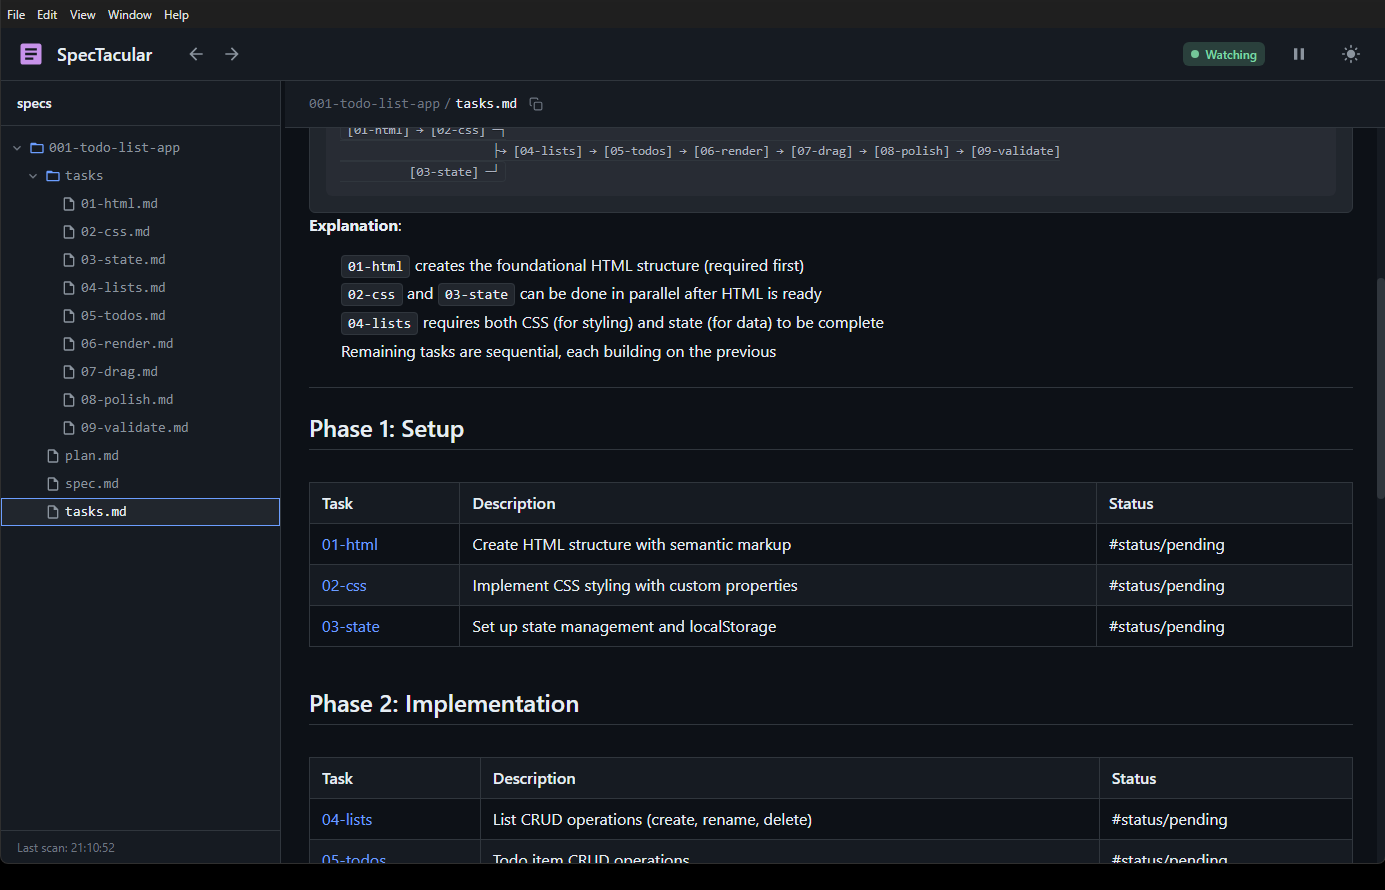
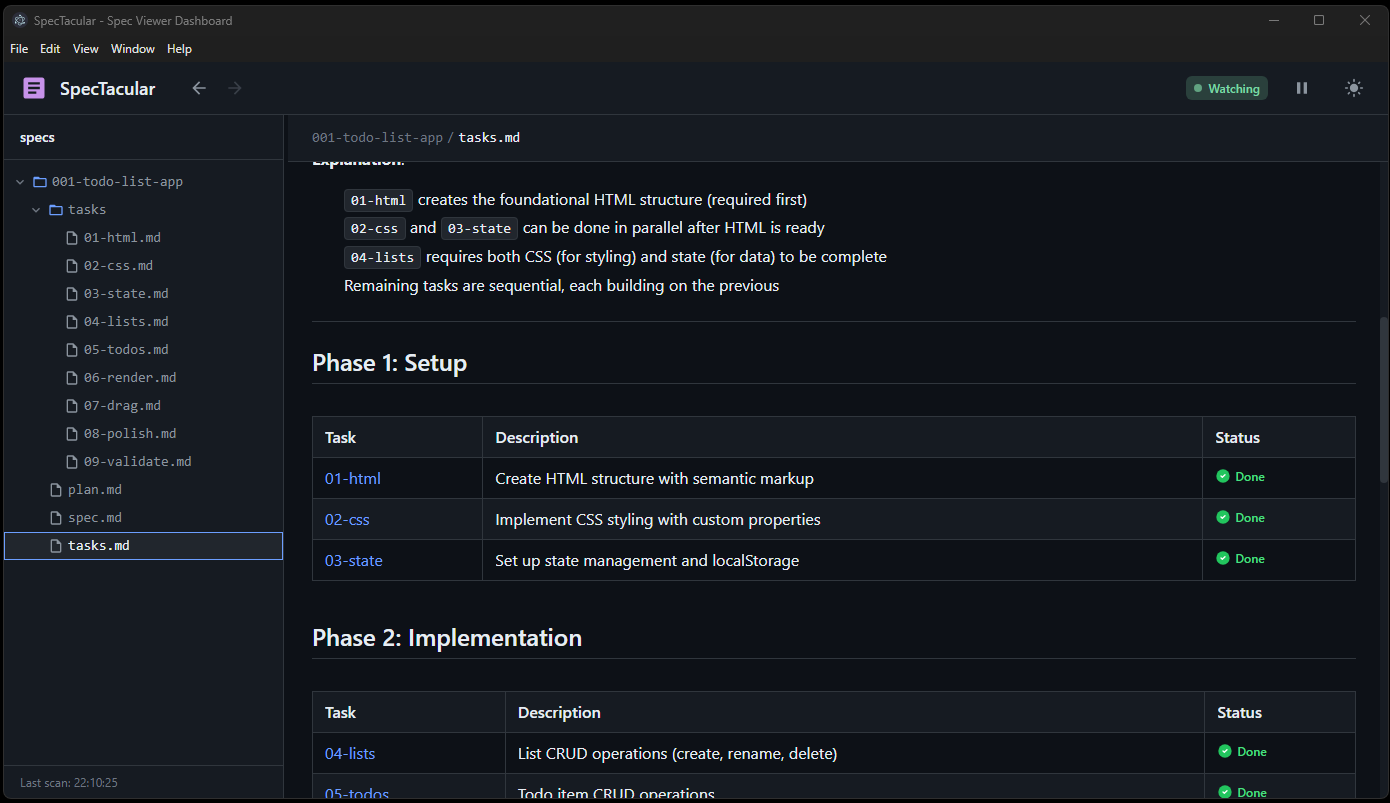
Add status tag visualization and project documentation
- Add visual icons for #status/* tags (done, pending, in-progress, blocked, skipped)
- Status tags render as colored icons with labels in markdown preview
- Support status tags in paragraphs and table cells
- Add README.md with project overview, setup instructions, and usage guide
- Update CLAUDE.md with markdown features documentation

🤖 Generated with [Claude Code](https://claude.com/claude-code)

diff --git a/spectacular-dashboard/src/components/MarkdownRenderer.tsx b/spectacular-dashboard/src/components/MarkdownRenderer.tsx
@@ -1,4 +1,4 @@
-import { useState, useCallback } from 'react';
+import React, { useState, useCallback } from 'react';
 import ReactMarkdown from 'react-markdown';
 import remarkGfm from 'remark-gfm';
 import { Prism as SyntaxHighlighter } from 'react-syntax-highlighter';
@@ -34,6 +34,107 @@ function CheckIcon({ className }: { className?: string }) {
       <polyline points="20 6 9 17 4 12" />
     </svg>
   );
+}
+
+// Status icons for #status/* tags
+function StatusDoneIcon() {
+  return (
+    <svg className="inline-block w-4 h-4 text-green-500" viewBox="0 0 24 24" fill="currentColor">
+      <circle cx="12" cy="12" r="10" />
+      <path d="M9 12l2 2 4-4" stroke="white" strokeWidth="2" fill="none" strokeLinecap="round" strokeLinejoin="round" />
+    </svg>
+  );
+}
+
+function StatusPendingIcon() {
+  return (
+    <svg className="inline-block w-4 h-4 text-gray-400" viewBox="0 0 24 24" fill="none" stroke="currentColor" strokeWidth="2">
+      <circle cx="12" cy="12" r="10" />
+    </svg>
+  );
+}
+
+function StatusInProgressIcon() {
+  return (
+    <svg className="inline-block w-4 h-4 text-blue-500" viewBox="0 0 24 24" fill="currentColor">
+      <circle cx="12" cy="12" r="10" />
+      <path d="M12 2 A10 10 0 0 1 12 22" fill="none" stroke="white" strokeWidth="2" />
+    </svg>
+  );
+}
+
+function StatusBlockedIcon() {
+  return (
+    <svg className="inline-block w-4 h-4 text-red-500" viewBox="0 0 24 24" fill="currentColor">
+      <circle cx="12" cy="12" r="10" />
+      <path d="M6 6l12 12M6 18L18 6" stroke="white" strokeWidth="2" strokeLinecap="round" />
+    </svg>
+  );
+}
+
+function StatusSkippedIcon() {
+  return (
+    <svg className="inline-block w-4 h-4 text-gray-500" viewBox="0 0 24 24" fill="currentColor">
+      <circle cx="12" cy="12" r="10" />
+      <path d="M8 12h8M15 9l3 3-3 3" stroke="white" strokeWidth="2" fill="none" strokeLinecap="round" strokeLinejoin="round" />
+    </svg>
+  );
+}
+
+// Status tag configuration
+const STATUS_CONFIG: Record<string, { icon: React.FC; label: string; className: string }> = {
+  'done': { icon: StatusDoneIcon, label: 'Done', className: 'text-green-600 dark:text-green-400' },
+  'complete': { icon: StatusDoneIcon, label: 'Complete', className: 'text-green-600 dark:text-green-400' },
+  'pending': { icon: StatusPendingIcon, label: 'Pending', className: 'text-gray-500 dark:text-gray-400' },
+  'in-progress': { icon: StatusInProgressIcon, label: 'In Progress', className: 'text-blue-600 dark:text-blue-400' },
+  'blocked': { icon: StatusBlockedIcon, label: 'Blocked', className: 'text-red-600 dark:text-red-400' },
+  'skipped': { icon: StatusSkippedIcon, label: 'Skipped', className: 'text-gray-500 dark:text-gray-400' },
+};
+
+// Render a status tag with icon
+function StatusTag({ status }: { status: string }) {
+  const config = STATUS_CONFIG[status.toLowerCase()];
+  if (!config) {
+    // Unknown status, render as plain text
+    return <span className="text-gray-500">#{`status/${status}`}</span>;
+  }
+  const Icon = config.icon;
+  return (
+    <span className={`inline-flex items-center gap-1 ${config.className}`} title={config.label}>
+      <Icon />
+      <span className="text-xs font-medium">{config.label}</span>
+    </span>
+  );
+}
+
+// Parse text to find and replace #status/* tags
+const STATUS_TAG_REGEX = /#status\/([a-zA-Z-]+)/g;
+
+function parseTextWithStatusTags(text: string): React.ReactNode[] {
+  const parts: React.ReactNode[] = [];
+  let lastIndex = 0;
+  let match;
+  let key = 0;
+
+  // Reset regex lastIndex
+  STATUS_TAG_REGEX.lastIndex = 0;
+
+  while ((match = STATUS_TAG_REGEX.exec(text)) !== null) {
+    // Add text before the match
+    if (match.index > lastIndex) {
+      parts.push(text.slice(lastIndex, match.index));
+    }
+    // Add the status tag component
+    parts.push(<StatusTag key={key++} status={match[1]} />);
+    lastIndex = match.index + match[0].length;
+  }
+
+  // Add remaining text after last match
+  if (lastIndex < text.length) {
+    parts.push(text.slice(lastIndex));
+  }
+
+  return parts.length > 0 ? parts : [text];
 }
 
 export function MarkdownRenderer({ content, currentFilePath, onNavigate }: MarkdownRendererProps) {
@@ -149,6 +250,36 @@ export function MarkdownRenderer({ content, currentFilePath, onNavigate }: Markd
                 <table>{children}</table>
               </div>
             );
+          },
+          // Custom paragraph renderer that handles status tags
+          p({ children }) {
+            if (typeof children === 'string') {
+              return <p>{parseTextWithStatusTags(children)}</p>;
+            }
+            // Handle array of children (mixed content)
+            const processedChildren = React.Children.map(children, (child) => {
+              if (typeof child === 'string') {
+                const parsed = parseTextWithStatusTags(child);
+                return parsed.length === 1 && typeof parsed[0] === 'string' ? child : parsed;
+              }
+              return child;
+            });
+            return <p>{processedChildren}</p>;
+          },
+          // Custom table cell renderer that handles status tags
+          td({ children }) {
+            if (typeof children === 'string') {
+              return <td>{parseTextWithStatusTags(children)}</td>;
+            }
+            // Handle array of children (mixed content)
+            const processedChildren = React.Children.map(children, (child) => {
+              if (typeof child === 'string') {
+                const parsed = parseTextWithStatusTags(child);
+                return parsed.length === 1 && typeof parsed[0] === 'string' ? child : parsed;
+              }
+              return child;
+            });
+            return <td>{processedChildren}</td>;
           },
           a({ href, children }) {
             const isMarkdownLink = href?.endsWith('.md') && !href?.startsWith('http');

diff --git a/README.md b/README.md
@@ -1,0 +1,151 @@
+# SpecTacular
+
+![SpecTacular Dashboard](images/SpecTacular.png)
+
+A markdown specification viewer - an Electron desktop application for previewing and monitoring markdown specification files with real-time filesystem watching.
+
+## Why SpecTacular?
+
+Managing software specifications across multiple markdown files can be challenging:
+
+- **Fragmented documentation** - Specs, plans, and tasks spread across many files
+- **No visual hierarchy** - Plain text editors don't show document relationships
+- **Manual navigation** - Jumping between linked files is tedious
+- **No status visibility** - Task completion states buried in text
+
+SpecTacular solves these problems by providing:
+
+- **Unified file tree** - Browse all spec files in a navigable sidebar
+- **Real-time watching** - Files update automatically when changed on disk
+- **Wikilink navigation** - Click `[[links]]` to jump between documents
+- **Visual status tags** - `#status/done`, `#status/pending` render as colored icons
+- **Dark/light themes** - Comfortable viewing in any environment
+- **Syntax highlighting** - Code blocks with language-aware formatting
+
+## Quick Start
+
+### Prerequisites
+
+- Node.js 18+
+- npm or yarn
+
+### Installation
+
+```bash
+# Clone the repository
+git clone https://github.com/yourusername/spectacular.git
+cd spectacular
+
+# Install dependencies
+cd spectacular-dashboard
+npm install
+
+# Run in development mode
+npm run dev
+```
+
+### Build for Production
+
+```bash
+# Full build with installer
+npm run build
+
+# The installer will be created at:
+# release/SpecTacular Setup 1.0.0.exe (Windows)
+```
+
+## Usage
+
+1. **Launch SpecTacular** - Run the application
+2. **Open a folder** - Select a directory containing your markdown specs
+3. **Browse files** - Use the sidebar file tree to navigate
+4. **Click wikilinks** - `[[document-name]]` links navigate between files
+5. **Track status** - Status tags like `#status/done` display as visual icons
+
+## Markdown Features
+
+### Status Tags
+
+Visual indicators for task and feature status:
+
+| Tag | Display | Use For |
+|-----|---------|---------|
+| `#status/done` | Green checkmark | Completed tasks |
+| `#status/complete` | Green checkmark | Finished features |
+| `#status/pending` | Gray circle | Not started |
+| `#status/in-progress` | Blue half-circle | Currently working |
+| `#status/blocked` | Red X | Blocked items |
+| `#status/skipped` | Gray arrow | Intentionally skipped |
+
+### Wikilinks
+
+Link between documents using double brackets:
+
+```markdown
+See the [[implementation-plan]] for details.
+Related: [[task-01-setup]], [[task-02-implement]]
+```
+
+### Task Links
+
+Links matching `task-\d+` patterns show a copy button on hover for easy reference.
+
+## Project Structure
+
+```
+spectacular/
+├── spectacular-dashboard/    # Main Electron + React application
+│   ├── electron/            # Main process (IPC, file watching)
+│   ├── src/                 # React renderer
+│   │   ├── components/      # UI components
+│   │   ├── hooks/           # Custom React hooks
+│   │   └── contexts/        # Theme context
+│   └── release/             # Built installers
+├── .spectacular/            # Configuration and templates
+│   ├── examples/            # Example spec files
+│   └── templates/           # Document templates
+└── images/                  # Project images
+```
+
+## Recommended Spec Structure
+
+Organize your specifications in feature folders:
+
+```
+specs/
+├── 001-user-authentication/
+│   ├── spec.md              # Feature specification
+│   ├── plan.md              # Implementation plan
+│   ├── tasks.md             # Task checklist with status
+│   └── task-01-setup.md     # Individual task details
+├── 002-dashboard-ui/
+│   └── ...
+```
+
+## Tech Stack
+
+- **Frontend**: React 18 + TypeScript + Vite
+- **Desktop**: Electron 28
+- **Styling**: Tailwind CSS
+- **File Watching**: chokidar
+- **Markdown**: react-markdown + remark-gfm
+
+## Development
+
+```bash
+# Development with hot reload
+npm run dev
+
+# Run tests
+npm run test
+
+# Lint code
+npm run lint
+
+# Build only Vite (no Electron)
+npm run build:vite
+```
+
+## License
+
+MIT

diff --git a/CLAUDE.md b/CLAUDE.md
@@ -64,6 +64,34 @@ specs/<###-feature-name>/    # Per-feature artifacts
 .claude/tasks/               # Task notes (wikilink graph)
 ```
 
+## Markdown Features
+
+### Status Tags
+The markdown renderer supports visual status tags that display as icons:
+
+| Tag | Icon | Description |
+|-----|------|-------------|
+| `#status/done` | ✓ (green) | Task completed |
+| `#status/complete` | ✓ (green) | Feature/phase complete |
+| `#status/pending` | ○ (gray) | Not yet started |
+| `#status/in-progress` | ◐ (blue) | Currently in progress |
+| `#status/blocked` | ⊘ (red) | Blocked by dependency |
+| `#status/skipped` | → (gray) | Intentionally skipped |
+
+Usage in tasks.md tables:
+```markdown
+| Task | Description | Status |
+|------|-------------|--------|
+| [[task-01]] | Setup project | #status/done |
+| [[task-02]] | Implement feature | #status/in-progress |
+```
+
+### Wikilinks
+The renderer supports `[[wikilink]]` syntax for navigation between markdown files.
+
+### Task Links
+Links matching `task-\d+` pattern show a copy button on hover.
+
 ## Core Principles (from Constitution)
 
 1. **Task Completion is Non-Negotiable** - Build must pass, tests must pass
